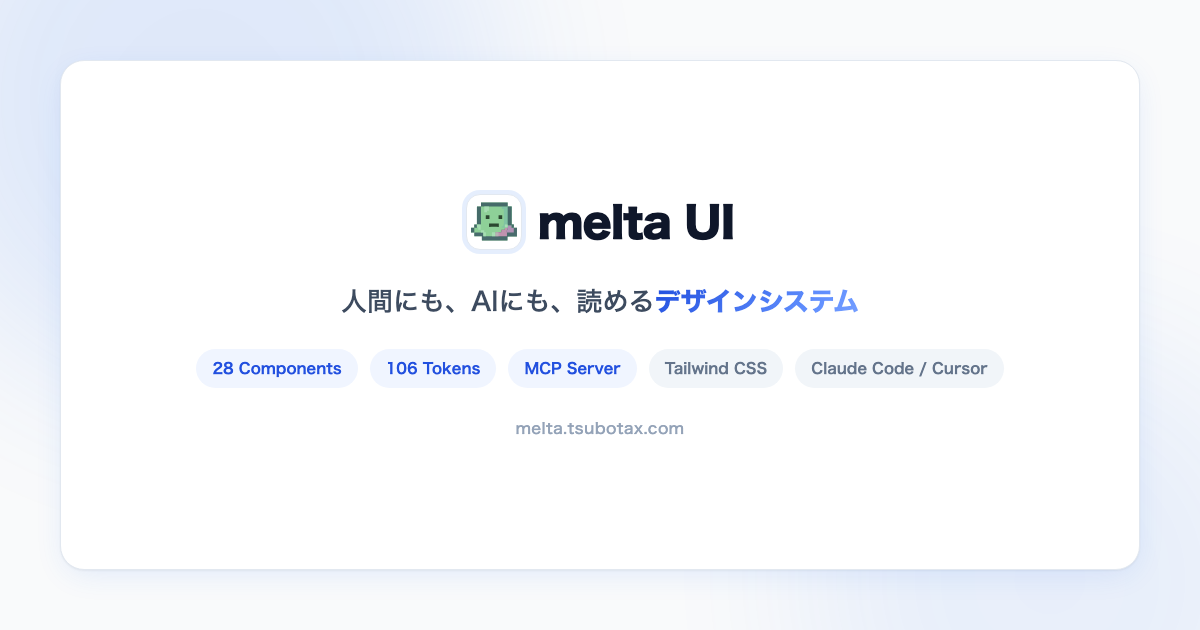
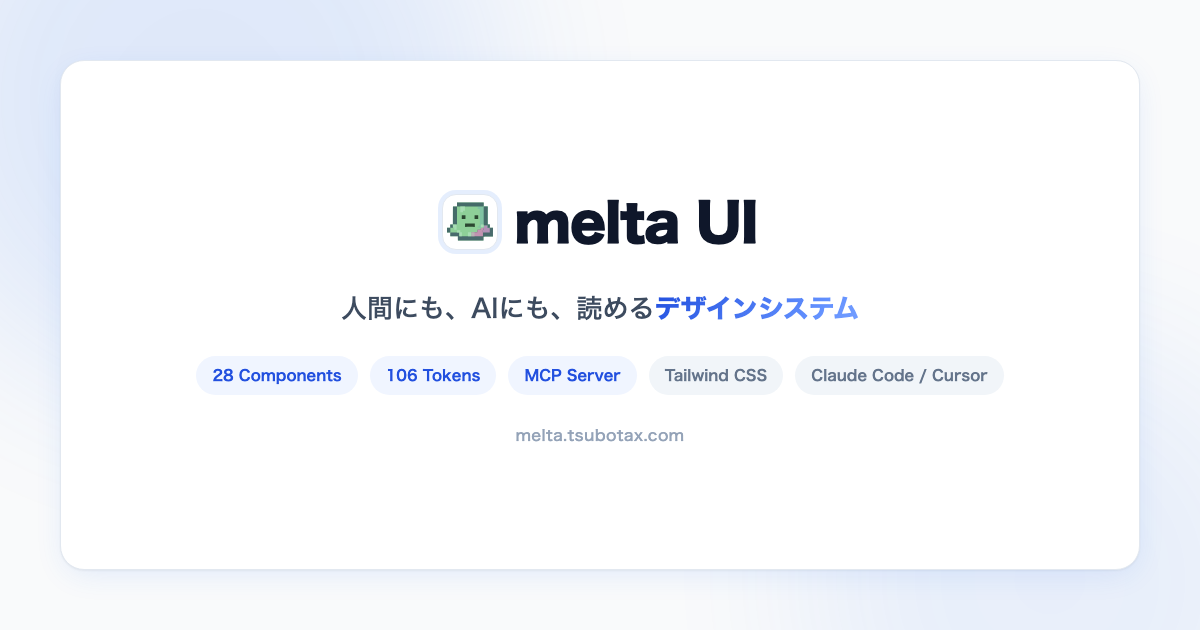
fix: OGP 画像のタイトルを大きく（42px→52px）

diff --git a/docs/og-image.html b/docs/og-image.html
@@ -72,7 +72,7 @@
     image-rendering: pixelated;
   }
   .logo-text {
-    font-size: 42px;
+    font-size: 52px;
     font-weight: 800;
     color: #0f172a;
     letter-spacing: -0.02em;
